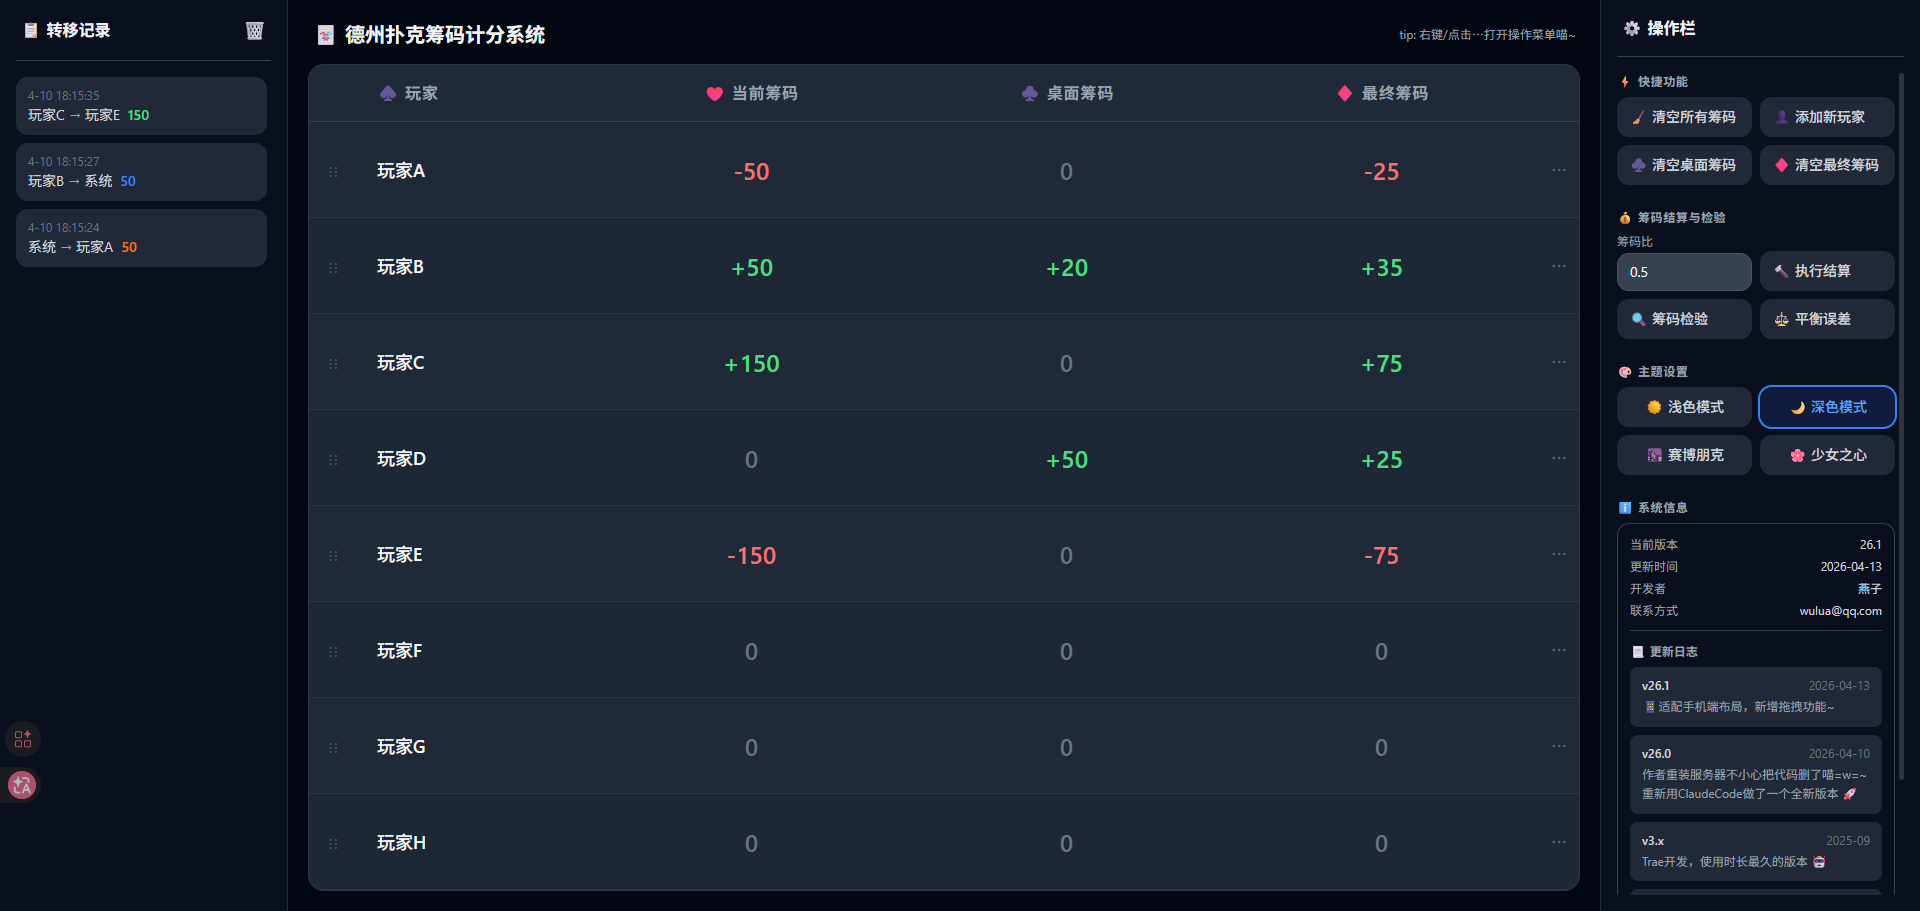
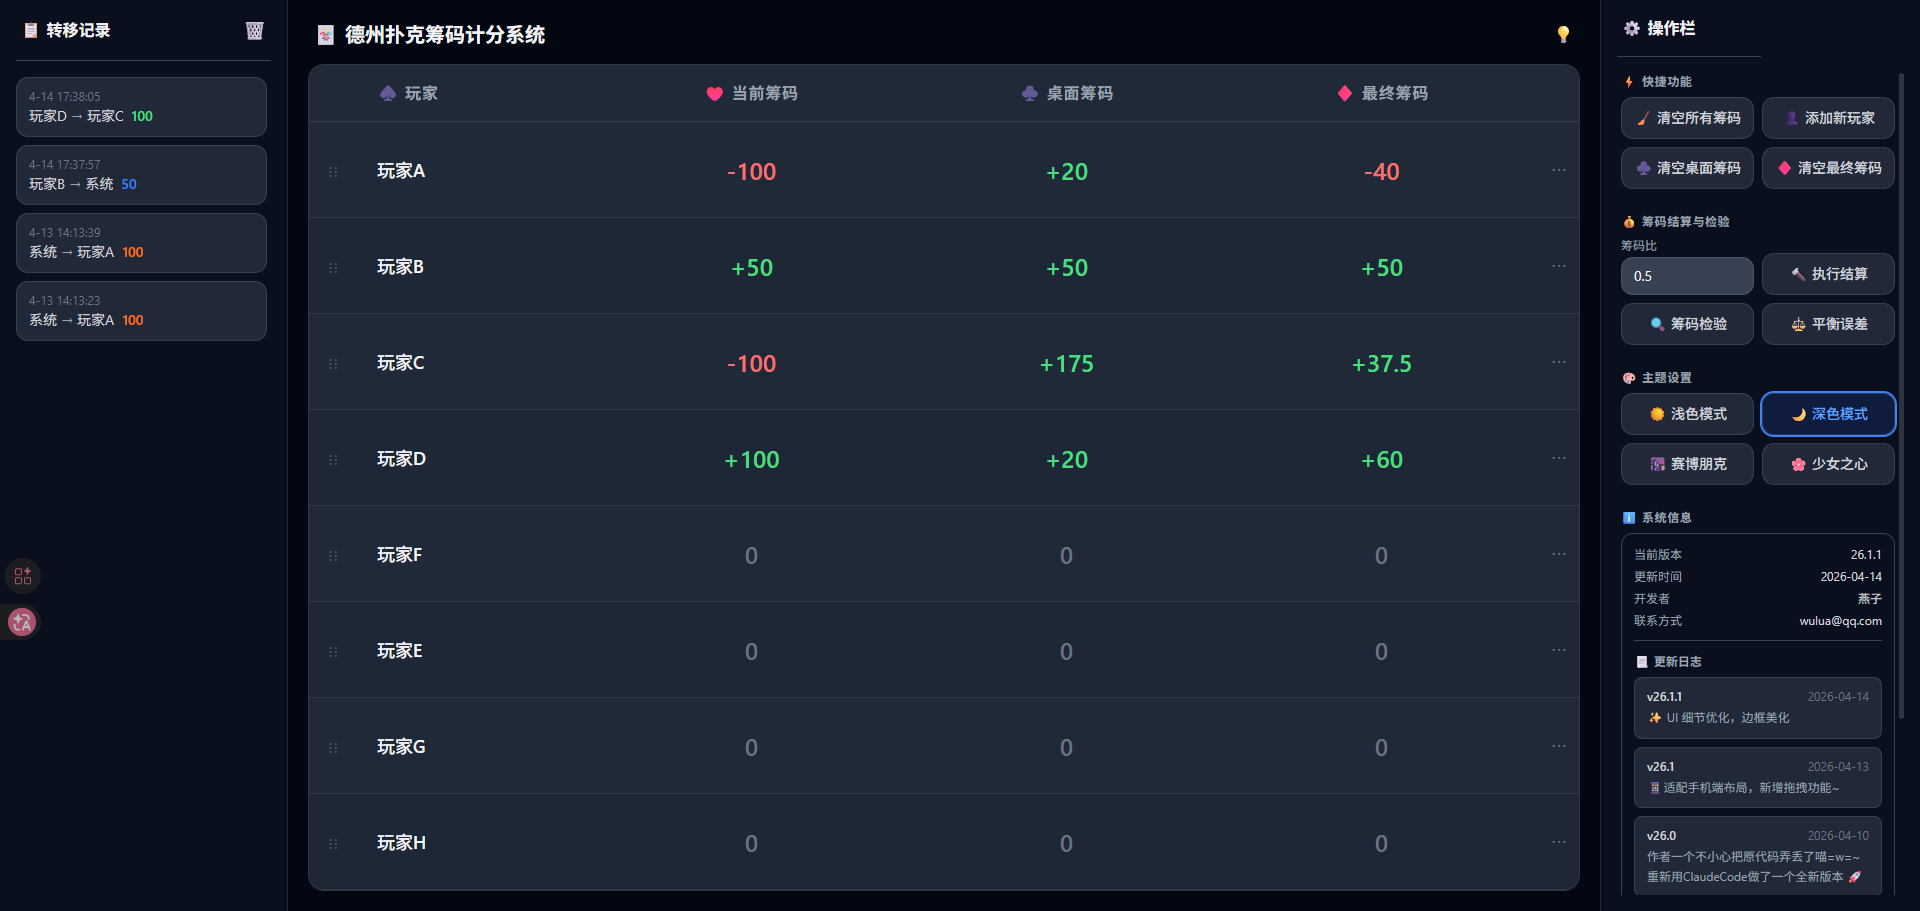
UI 细节优化，边框美化

diff --git a/src/components/operation/SystemInfo.vue b/src/components/operation/SystemInfo.vue
@@ -4,8 +4,8 @@
     <div class="rounded-xl border border-gray-200 dark:border-gray-700 p-3">
       <!-- 基本信息 -->
       <div class="text-xs text-gray-500 dark:text-gray-400 space-y-1.5">
-        <div class="flex justify-between"><span>当前版本</span><span class="text-gray-700 dark:text-gray-300">26.1</span></div>
-        <div class="flex justify-between"><span>更新时间</span><span class="text-gray-700 dark:text-gray-300">2026-04-13</span></div>
+        <div class="flex justify-between"><span>当前版本</span><span class="text-gray-700 dark:text-gray-300">26.1.1</span></div>
+        <div class="flex justify-between"><span>更新时间</span><span class="text-gray-700 dark:text-gray-300">2026-04-14</span></div>
         <div class="flex justify-between"><span>开发者</span><span class="text-gray-700 dark:text-gray-300">燕子</span></div>
         <div class="flex justify-between"><span>联系方式</span><span class="text-gray-700 dark:text-gray-300">wulua@qq.com</span></div>
       </div>
@@ -16,35 +16,42 @@
       <!-- 更新信息 -->
       <p class="text-xs font-semibold text-gray-500 dark:text-gray-400 mb-2">📃 更新日志</p>
       <div class="space-y-2">
-        <div class="rounded-lg bg-gray-50 dark:bg-gray-700/50 px-3 py-2.5 text-xs">
+        <div class="rounded-lg bg-gray-50 dark:bg-gray-700/50 border border-gray-200 dark:border-gray-600/50 px-3 py-2.5 text-xs">
+          <div class="flex items-center justify-between mb-1">
+            <span class="font-semibold text-gray-700 dark:text-gray-300">v26.1.1</span>
+            <span class="text-gray-400 dark:text-gray-500">2026-04-14</span>
+          </div>
+          <p class="text-gray-600 dark:text-gray-400 leading-relaxed">✨ UI 细节优化，边框美化</p>
+        </div>
+        <div class="rounded-lg bg-gray-50 dark:bg-gray-700/50 border border-gray-200 dark:border-gray-600/50 px-3 py-2.5 text-xs">
           <div class="flex items-center justify-between mb-1">
             <span class="font-semibold text-gray-700 dark:text-gray-300">v26.1</span>
             <span class="text-gray-400 dark:text-gray-500">2026-04-13</span>
           </div>
           <p class="text-gray-600 dark:text-gray-400 leading-relaxed">📱适配手机端布局，新增拖拽功能~</p>
-        </div>        
-        <div class="rounded-lg bg-gray-50 dark:bg-gray-700/50 px-3 py-2.5 text-xs">
+        </div>
+        <div class="rounded-lg bg-gray-50 dark:bg-gray-700/50 border border-gray-200 dark:border-gray-600/50 px-3 py-2.5 text-xs">
           <div class="flex items-center justify-between mb-1">
             <span class="font-semibold text-gray-700 dark:text-gray-300">v26.0</span>
             <span class="text-gray-400 dark:text-gray-500">2026-04-10</span>
           </div>
-          <p class="text-gray-600 dark:text-gray-400 leading-relaxed">作者重装服务器不小心把代码删了喵=w=~重新用ClaudeCode做了一个全新版本 🚀</p>
+          <p class="text-gray-600 dark:text-gray-400 leading-relaxed">作者一个不小心把原代码弄丢了喵=w=~重新用ClaudeCode做了一个全新版本 🚀</p>
         </div>
-        <div class="rounded-lg bg-gray-50 dark:bg-gray-700/50 px-3 py-2.5 text-xs">
+        <div class="rounded-lg bg-gray-50 dark:bg-gray-700/50 border border-gray-200 dark:border-gray-600/50 px-3 py-2.5 text-xs">
           <div class="flex items-center justify-between mb-1">
             <span class="font-semibold text-gray-700 dark:text-gray-300">v3.x</span>
             <span class="text-gray-400 dark:text-gray-500">2025-09</span>
           </div>
-          <p class="text-gray-600 dark:text-gray-400 leading-relaxed">Trae开发，使用时长最久的版本 🤖</p>
+          <p class="text-gray-600 dark:text-gray-400 leading-relaxed">使用 Trae 开发，使用时长最久的版本 🤖</p>
         </div>        
-        <div class="rounded-lg bg-gray-50 dark:bg-gray-700/50 px-3 py-2.5 text-xs">
+        <div class="rounded-lg bg-gray-50 dark:bg-gray-700/50 border border-gray-200 dark:border-gray-600/50 px-3 py-2.5 text-xs">
           <div class="flex items-center justify-between mb-1">
             <span class="font-semibold text-gray-700 dark:text-gray-300">v2.x</span>
             <span class="text-gray-400 dark:text-gray-500">2025-08</span>
           </div>
-          <p class="text-gray-600 dark:text-gray-400 leading-relaxed">首个PC-Web版，v3.0的雏形 🐥</p>
+          <p class="text-gray-600 dark:text-gray-400 leading-relaxed">首个 PC-Web 版，v3.0 的雏形 🐥</p>
         </div>
-        <div class="rounded-lg bg-gray-50 dark:bg-gray-700/50 px-3 py-2.5 text-xs">
+        <div class="rounded-lg bg-gray-50 dark:bg-gray-700/50 border border-gray-200 dark:border-gray-600/50 px-3 py-2.5 text-xs">
           <div class="flex items-center justify-between mb-1">
             <span class="font-semibold text-gray-700 dark:text-gray-300">v1.x</span>
             <span class="text-gray-400 dark:text-gray-500">2025-06</span>

diff --git a/src/styles/main.css b/src/styles/main.css
@@ -49,9 +49,10 @@
     @apply text-xs font-semibold text-gray-500 dark:text-gray-400 uppercase tracking-wider mb-2 flex items-center gap-1.5;
   }
   .action-btn {
-    @apply flex items-center gap-2 px-3 py-2.5 rounded-xl text-sm font-medium cursor-pointer
+    @apply flex items-center justify-center gap-2 px-3 py-2.5 rounded-xl text-sm font-medium cursor-pointer
            bg-gray-50 dark:bg-gray-700/50 hover:bg-gray-100 dark:hover:bg-gray-700
-           text-gray-700 dark:text-gray-300 transition-all duration-200 select-none active:scale-[0.97];
+           border border-gray-200 dark:border-gray-600/50
+           text-gray-700 dark:text-gray-300 transition-all duration-200 select-none active:scale-[0.97] whitespace-nowrap;
   }
   .theme-active {
     @apply ring-2 ring-blue-500 bg-blue-50 dark:bg-blue-900/30 text-blue-600 dark:text-blue-400;
@@ -185,10 +186,34 @@ html.theme-cyberpunk thead th {
 
 html.theme-cyberpunk tbody tr {
   border-color: rgba(0, 240, 255, 0.06);
+  background: rgba(10, 3, 25, 0.6);
+}
+html.theme-cyberpunk tbody tr:nth-child(even) {
+  background: rgba(0, 240, 255, 0.03);
 }
 html.theme-cyberpunk tbody tr:hover {
+  background: rgba(0, 240, 255, 0.08);
+}
+
+/* 筹码颜色 - 霓虹风格 */
+html.theme-cyberpunk .text-green-400 { color: #00ffaa; text-shadow: 0 0 8px rgba(0, 255, 170, 0.3); }
+html.theme-cyberpunk .text-green-600 { color: #00ffaa; }
+html.theme-cyberpunk .text-red-400 { color: #ff3366; text-shadow: 0 0 8px rgba(255, 51, 102, 0.3); }
+html.theme-cyberpunk .text-red-500 { color: #ff3366; }
+
+/* 转移记录卡片 & 更新日志卡片 */
+html.theme-cyberpunk .bg-gray-50 {
   background: rgba(0, 240, 255, 0.04);
 }
+html.theme-cyberpunk .bg-gray-100 {
+  background: rgba(0, 240, 255, 0.06);
+}
+
+/* 通用文本颜色覆盖 */
+html.theme-cyberpunk .text-gray-700 { color: #b8e8f0; }
+html.theme-cyberpunk .text-gray-600 { color: #90c0d0; }
+html.theme-cyberpunk .text-gray-500 { color: #708898; }
+html.theme-cyberpunk .text-gray-400 { color: #507080; }
 
 html.theme-cyberpunk ::-webkit-scrollbar-thumb {
   background: rgba(0, 240, 255, 0.2);
@@ -196,7 +221,19 @@ html.theme-cyberpunk ::-webkit-scrollbar-thumb {
 
 /* Transfer card & context menu overrides */
 html.theme-cyberpunk .group:hover {
-  background: rgba(0, 240, 255, 0.06);
+  background: rgba(0, 240, 255, 0.08);
+}
+
+/* 右键菜单 */
+html.theme-cyberpunk .min-w-\[180px\] {
+  background: rgba(10, 3, 25, 0.95);
+  border-color: rgba(0, 240, 255, 0.15);
+}
+
+/* 标题霓虹光效 */
+html.theme-cyberpunk h2.font-bold {
+  color: #e0d0ff;
+  text-shadow: 0 0 12px rgba(180, 120, 255, 0.25);
 }
 
 /* ═══════════════════════════════════════════
@@ -220,10 +257,15 @@ html.theme-sakura .card {
 
 html.theme-sakura .action-btn {
   background: rgba(255, 228, 235, 0.6);
+  border-color: rgba(255, 182, 200, 0.4);
   color: #8b4060;
 }
 html.theme-sakura .action-btn:hover {
   background: rgba(255, 200, 215, 0.55);
+}
+
+html.theme-sakura .bg-gray-50 {
+  background: rgba(255, 240, 245, 0.6);
 }
 
 html.theme-sakura .theme-active {
@@ -281,9 +323,13 @@ html.theme-sakura thead th {
 
 html.theme-sakura tbody tr {
   border-color: rgba(255, 200, 215, 0.25);
+  background: rgba(255, 240, 245, 0.5);
+}
+html.theme-sakura tbody tr:nth-child(even) {
+  background: rgba(255, 228, 238, 0.45);
 }
 html.theme-sakura tbody tr:hover {
-  background: rgba(255, 228, 238, 0.4);
+  background: rgba(255, 215, 228, 0.6);
 }
 
 html.theme-sakura ::-webkit-scrollbar-thumb {

diff --git a/src/components/table/ChipTable.vue b/src/components/table/ChipTable.vue
@@ -3,7 +3,11 @@
     <!-- Header -->
     <div class="flex items-center justify-between mb-3 lg:mb-4 px-1">
       <h2 class="text-lg sm:text-xl font-bold">🃏 德州扑克筹码计分系统</h2>
-      <span class="text-xs text-gray-400 dark:text-gray-400 hidden sm:inline">tip: 右键/点击⋯打开操作菜单喵~</span>
+      <button
+        class="text-lg hover:scale-110 transition-transform cursor-pointer"
+        title="使用小贴士"
+        @click="showTip"
+      >💡</button>
     </div>
 
     <!-- Table -->
@@ -72,6 +76,7 @@
 <script setup>
 import { reactive, computed, onUnmounted } from 'vue'
 import { usePlayers } from '../../composables/usePlayers'
+import { useToast } from '../../composables/useToast'
 import PlayerRow from './PlayerRow.vue'
 import ContextMenu from '../common/ContextMenu.vue'
 import ChipModal from '../common/ChipModal.vue'
@@ -81,6 +86,16 @@ const {
   players, updatePlayerField, reorderPlayers,
   transferToPlayer, borrowChips, returnChips, removePlayer,
 } = usePlayers()
+
+// ── Tips ──
+const { addToast } = useToast()
+const tips = [
+  '右键玩家行也可打开操作菜单喵~',
+  '双击可直接修改玩家名、筹码数喵~',
+]
+function showTip() {
+  addToast(tips[Math.floor(Math.random() * tips.length)], 'info')
+}
 
 // ── Custom drag-to-reorder (mouse events, no HTML5 DnD) ──
 const drag = reactive({ active: false, fromIndex: -1, overIndex: -1 })

diff --git a/src/components/operation/OperationSidebar.vue b/src/components/operation/OperationSidebar.vue
@@ -1,8 +1,8 @@
 <template>
   <aside class="sidebar">
     <h2 class="sidebar-title mb-4 px-1">⚙ 操作栏</h2>
-    <div class="border-t border-gray-200 dark:border-gray-700 mb-4 " />
-    <div class="flex-1 overflow-y-auto space-y-6 pr-1">
+    <div class="border-t border-gray-200 dark:border-gray-700 mb-4 w-1/2" />
+    <div class="flex-1 overflow-y-auto space-y-6 px-1">
       <QuickActions />
       <Settlement />
       <ThemeSettings />

diff --git a/src/components/transfer/TransferCard.vue b/src/components/transfer/TransferCard.vue
@@ -1,6 +1,7 @@
 <template>
   <div
     class="group relative px-3 py-2.5 rounded-xl bg-gray-50 dark:bg-gray-700/50
+           border border-gray-200 dark:border-gray-600/50
            hover:bg-gray-100 dark:hover:bg-gray-700 transition-colors duration-200"
   >
     <p class="text-xs text-gray-400 dark:text-gray-500 tabular-nums">{{ timeStr }}</p>

diff --git a/src/components/operation/ThemeSettings.vue b/src/components/operation/ThemeSettings.vue
@@ -5,7 +5,7 @@
       <button
         v-for="item in themes"
         :key="item.value"
-        class="action-btn justify-center"
+        class="action-btn"
         :class="{ 'theme-active': theme === item.value }"
         @click="setTheme(item.value)"
       >{{ item.icon }} {{ item.label }}</button>

diff --git a/README.md b/README.md
@@ -39,7 +39,8 @@ pnpm build
 
 | 版本 | 时间 | 说明 |
 |------|------|------|
-| v26.1 | 2026-04 | 响应式适配、拖拽排序优化、UI 细节完善 |
+| v26.1.1 | 2026-04 | UI 细节优化、边框美化 |
+| v26.1 | 2026-04 | 响应式适配、新增拖拽排序功能 |
 | v26.0 | 2026-04 | 使用 Claude Code 全新重构 |
 | v3.x | 2025-09 | Trae 开发，使用时长最久的版本 |
 | v2.x | 2025-08 | 首个 PC-Web 版 |
